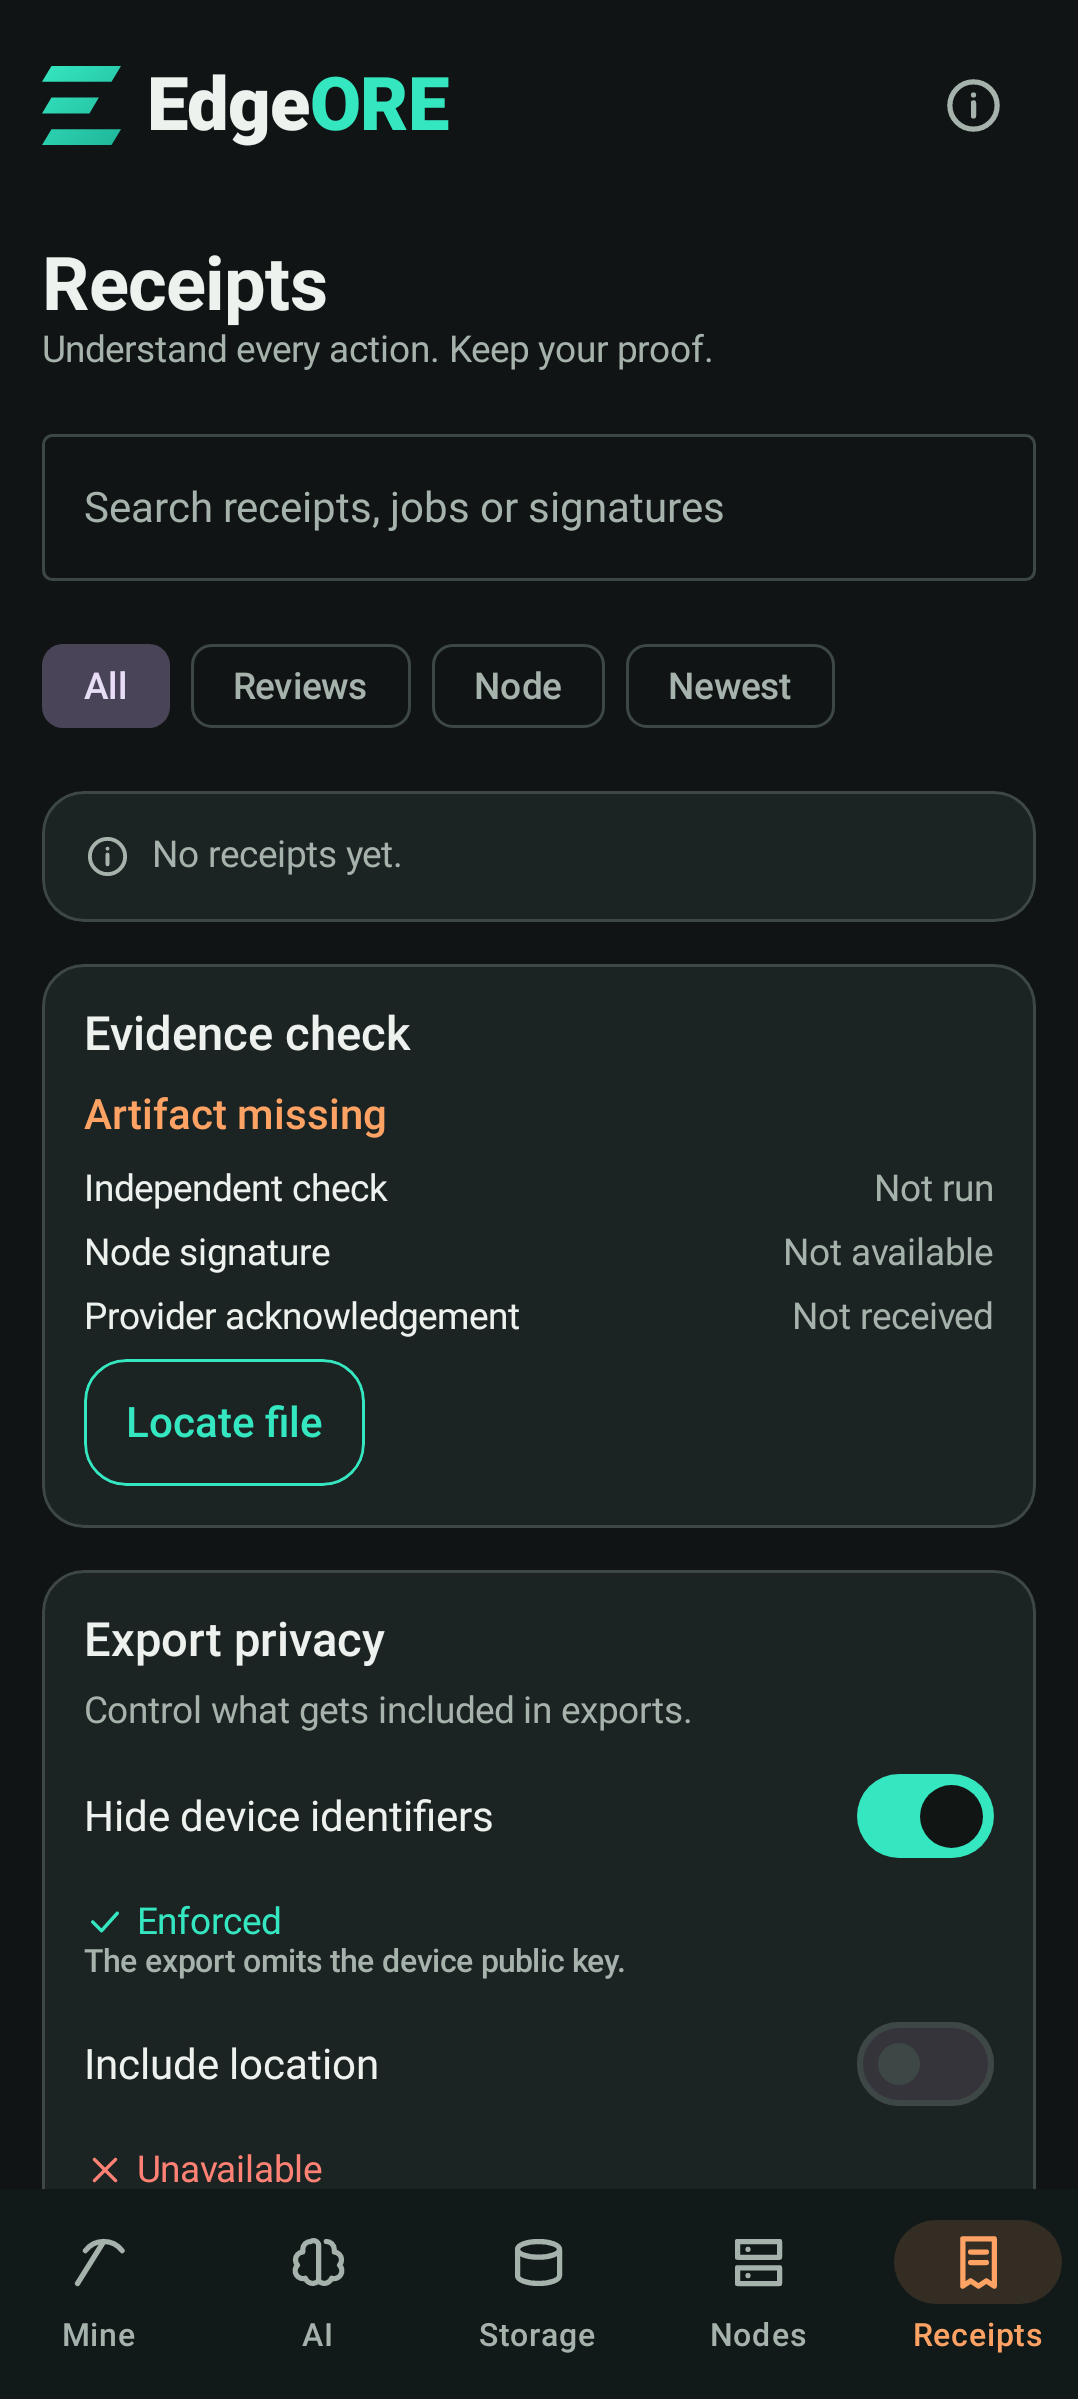
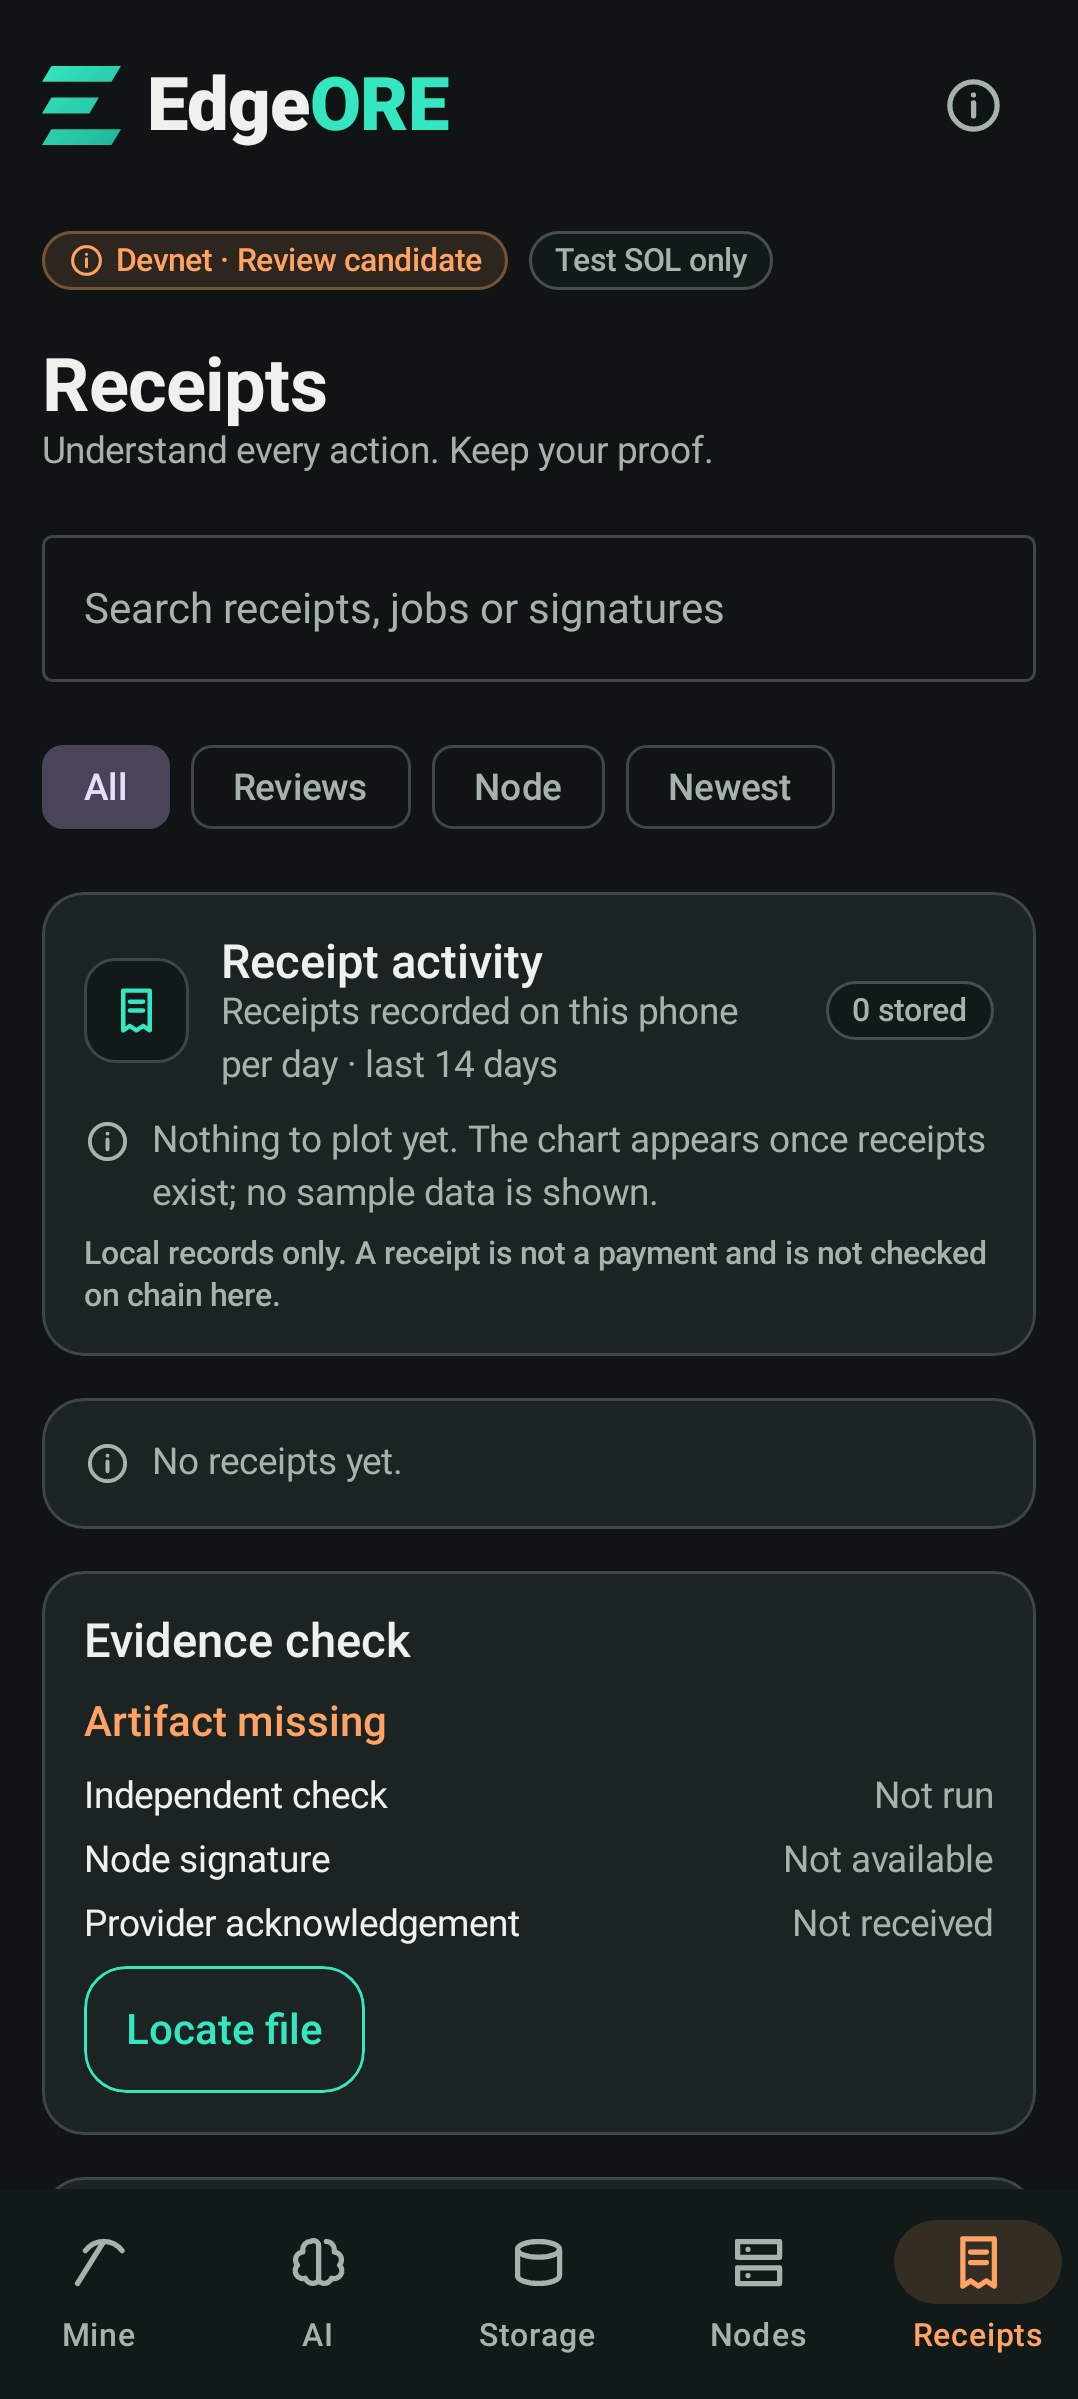
screens: re-record baselines for the agentic redesign (intentional)
Recorded with ./gradlew :app:recordRoborazziDebug -Pscreens at a437d23. Reasons per file in docs/screenshots/README.md. 07-onboarding and 09-plain-language are unchanged.

diff --git a/docs/screenshots/README.md b/docs/screenshots/README.md
@@ -54,3 +54,20 @@ The suite now orders an `OnboardingSeen` rule before the Compose rule, so the ex
 | new `09-plain-language.png` | `PlainLanguageCard` over a real `TransferReview.prepare` draft built from a fixed test key, destination and blockhash (no wallet, no RPC, so the fee reads *unknown*), and over an unsupported draft. | `PlainLanguage.kt` |
 
 `02-ai`, `03-storage` and `05-receipts` (and their `full/` versions) are unchanged. These are JVM renders, not device screenshots.
+
+### Re-record: agentic redesign (feature/agentic-redesign)
+
+Intentional re-record of every app-shell baseline after the redesign that adapts patterns from OptimAI Agentic for Android
+(see `docs/analysis/agentic-android-review.md`). Fresh-install state is unchanged: no wallet, node, host, model or receipts.
+
+| Baseline | Why it changed | Source change |
+|---|---|---|
+| all `0[1-6]-*.png`, all `full/0[1-6]-*-full.png`, `full/08-review-filled-full.png` | The shell now shows the "Devnet · Review candidate" / "Test SOL only" strip under the header (design.md §3), which moves every screen down. | `ui/EdgeOreApp.kt`, `ui/components/DesignKit.kt` |
+| `01-mine*.png` | Heading "Your edge, under your control"; Now rows use icon tiles; the wallet card is a fact card with a "Not connected" pill. | `ui/screens/MineScreen.kt` |
+| `02-ai*.png` | Execution and on-device cards use the fact-card layout and status pills; empty conversation text instead of a blank area. | `ui/screens/AiScreen.kt`, `ui/components/Chat.kt` |
+| `04-nodes*.png` | Host card gains an icon tile. | `ui/screens/NodesScreen.kt` |
+| `05-receipts*.png` | New "Receipt activity" card; with no receipts it shows "Nothing to plot yet" and draws no chart. | `ui/screens/ReceiptsScreen.kt`, `ui/components/Charts.kt` |
+
+`07-onboarding*.png` and `09-plain-language.png` did not change (onboarding has no shell header; the plain-language card is rendered alone).
+The new chart, chat bubbles and badges only appear with real local data, so no baseline shows them with values; their logic is covered by
+`ChartsAndActivityTest`, `MarkdownTest`, `PlainErrorTest` and `NavBadgesTest`.
